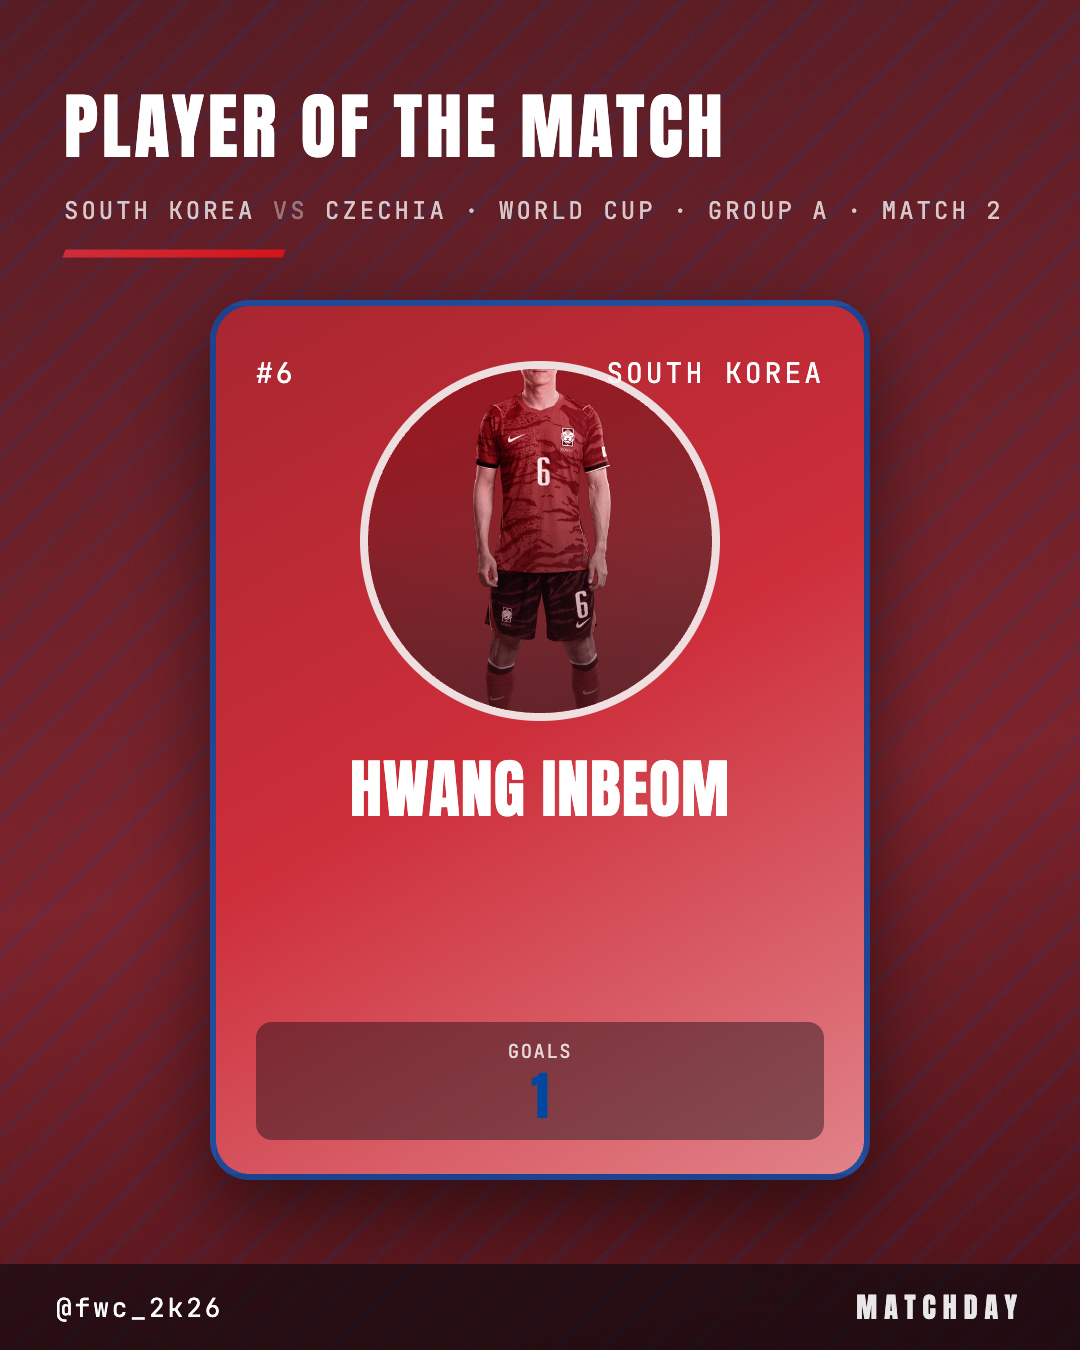
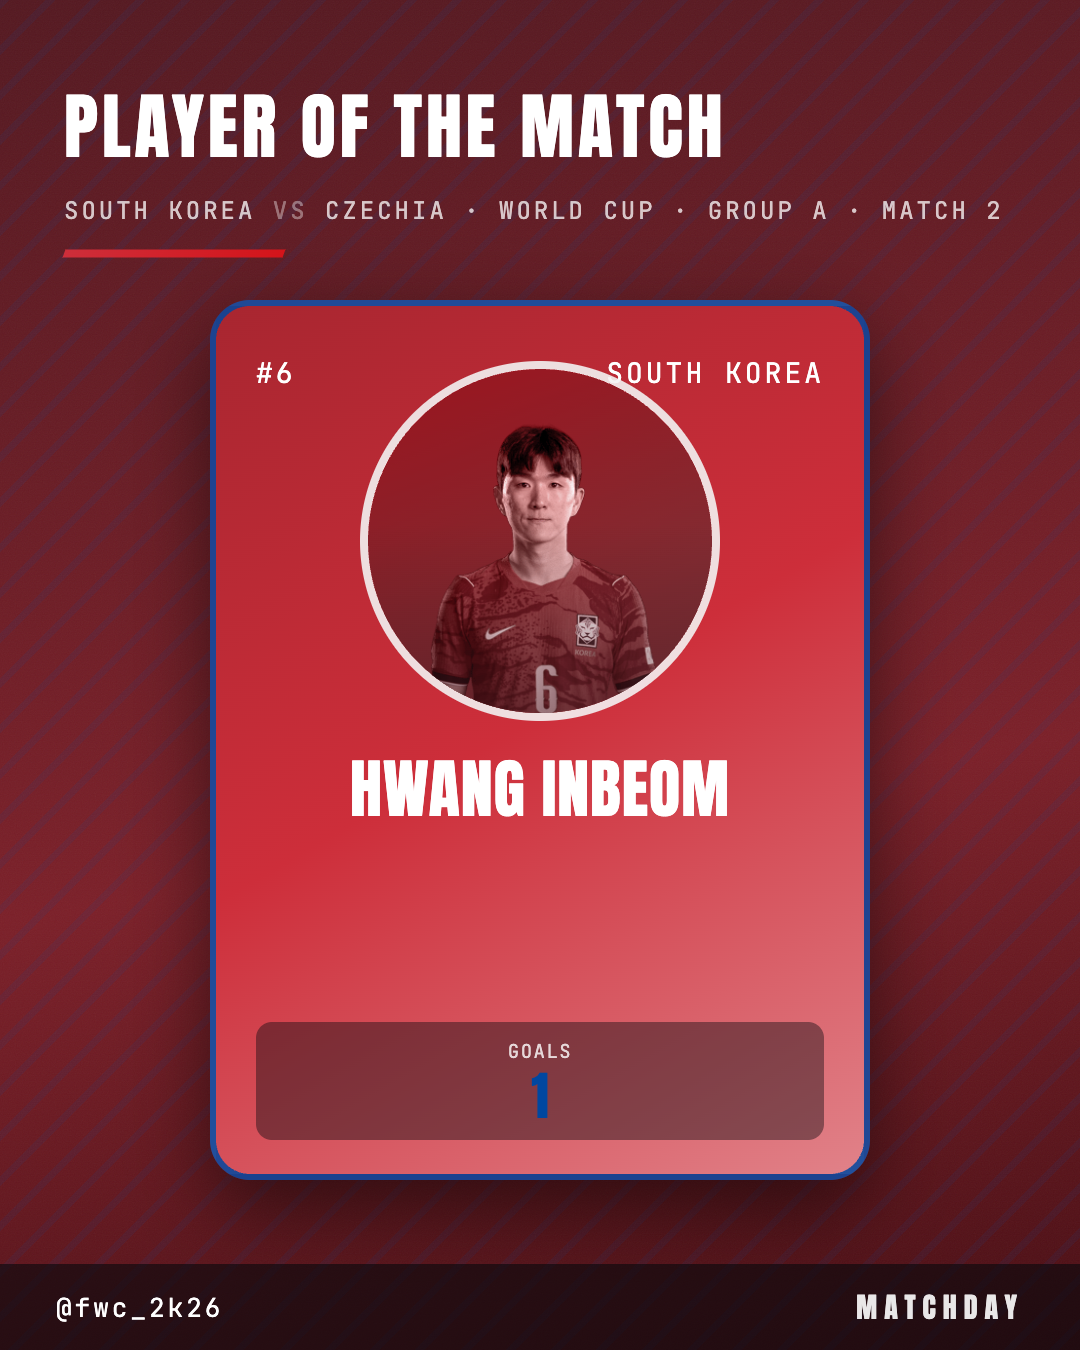
MOTM photo: anchor top + zoom for head-to-chest framing (FIFA cutouts are full-body)

Changed region(s): [[0.3972, 0.2489, 0.6111, 0.5289]]

diff --git a/CarouselStudio.html b/CarouselStudio.html
@@ -775,15 +775,13 @@ function buildStats(A,B){
 function buildMotm(A,B){
   const T=S.motm.team==="B"?B:A, other=S.motm.team==="B"?A:B;
   const tn=S.motm.team==="B"?team(S.teamB).n:team(S.teamA).n;
+  // full-body cutouts (FIFA) anchored at the top + zoomed -> head-to-chest framing
+  const tintOverlays = `<span style="position:absolute;inset:0;background:linear-gradient(160deg, ${alpha(T.primary,.58)} 0%, ${alpha(T.accent,.5)} 100%);mix-blend-mode:color;"></span><span style="position:absolute;inset:0;background:linear-gradient(180deg, transparent 45%, ${alpha(T.deep,.55)} 100%);"></span>`;
   const photo=S.motm.img
-    ? (S.motmTint
-        // duotone the photo into the team's flag colors so it matches the slide
-        ? `<div class="motm-photo" style="position:relative;overflow:hidden;">
-             <img src="${S.motm.img}" alt="" style="position:absolute;inset:0;width:100%;height:100%;object-fit:cover;filter:grayscale(.5) contrast(1.06) brightness(1.02);">
-             <span style="position:absolute;inset:0;background:linear-gradient(160deg, ${alpha(T.primary,.58)} 0%, ${alpha(T.accent,.5)} 100%);mix-blend-mode:color;"></span>
-             <span style="position:absolute;inset:0;background:linear-gradient(180deg, transparent 45%, ${alpha(T.deep,.55)} 100%);"></span>
-           </div>`
-        : `<img class="motm-photo" src="${S.motm.img}" alt="">`)
+    ? `<div class="motm-photo" style="position:relative;overflow:hidden;">
+         <img src="${S.motm.img}" alt="" style="position:absolute;top:0;left:50%;transform:translateX(-50%);width:170%;height:auto;${S.motmTint?"filter:grayscale(.5) contrast(1.06) brightness(1.02);":""}">
+         ${S.motmTint?tintOverlays:""}
+       </div>`
     : `<div class="motm-photo ph" style="color:${alpha(T.ink,.5)};">👤</div>`;
   const chips=S.motm.chips.filter(c=>String(c[0]).trim()||String(c[1]).trim()).map(c=>`<div class="motm-chip" style="color:${T.ink};"><div class="cl">${esc(c[0])}</div><div class="cvv" style="color:${T.ink==='#ffffff'?T.secondary:T.ink};">${esc(c[1])}</div></div>`).join("");
   return `<div class="art">
